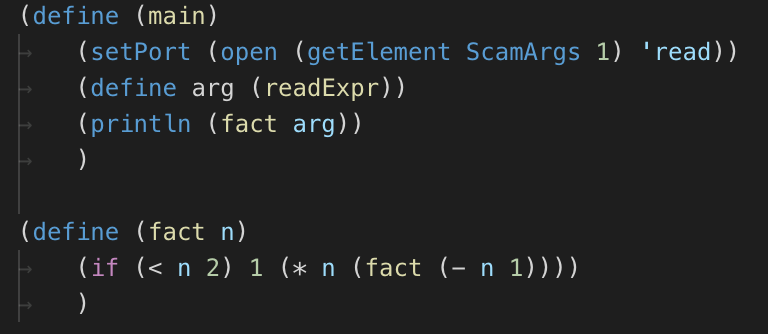
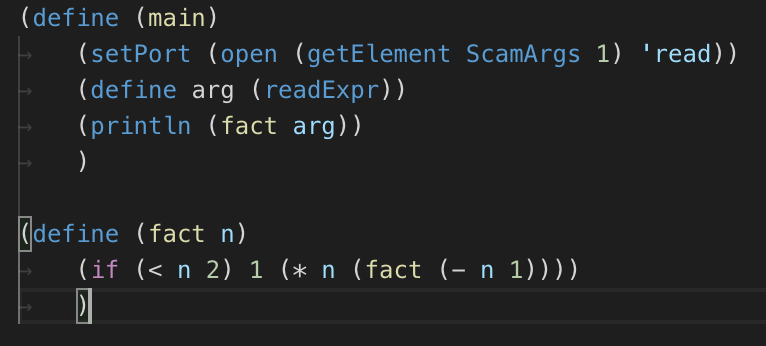
update screenshot and add support for sqrt and expt

diff --git a/CHANGELOG.md b/CHANGELOG.md
@@ -3,6 +3,13 @@ All notable changes to the "scm" extension will be documented in this file.
 
 Check [Keep a Changelog](http://keepachangelog.com/) for recommendations on how to structure this file.
 
+## [0.0.4] - 2019-03-05
+### Added
+- Support for exponential functions (`sqrt`, `expt`)
+
+### Changed
+- Updated th example image
+
 ## [0.0.3] - 2019-03-05
 ### Added
 - Support for the `^` operator (power)

diff --git a/README.md b/README.md
@@ -60,6 +60,11 @@ In order to change the theming of the syntax highlighting, change the following 
 
 Change log for this extension:
 
+### 0.0.4
+
+- Added support for exponential functions (`sqrt`, `expt`)
+- Updated example screenshot
+
 ### 0.0.3
 
 - Updated README
